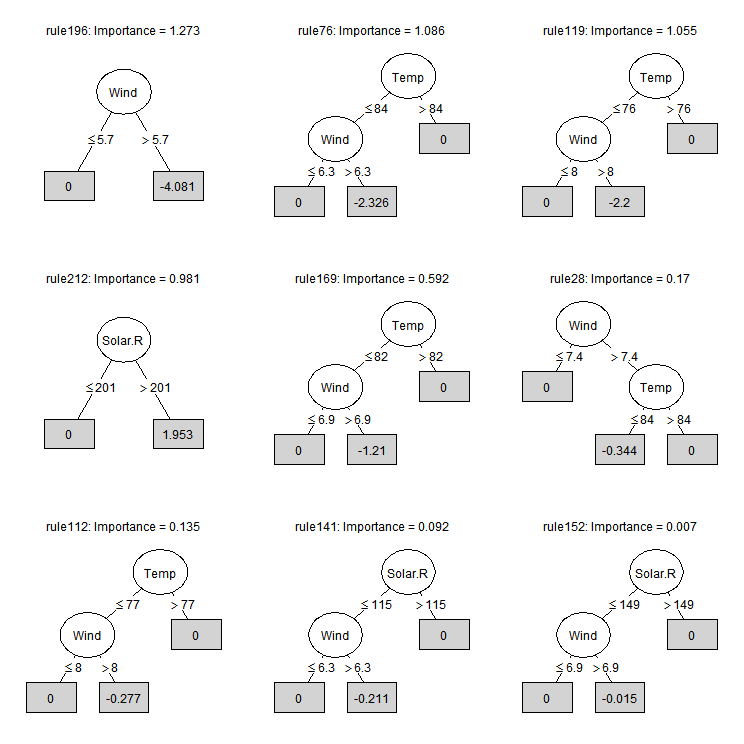
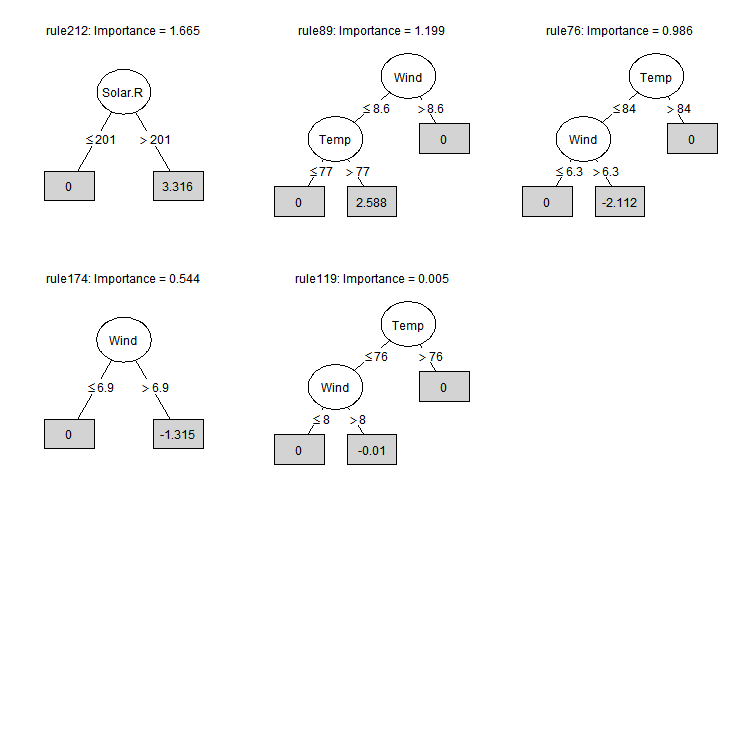
Updated README

diff --git a/README.md b/README.md
@@ -1,4 +1,4 @@
-pre: An R package for deriving prediction rule ensembles
+pre: an R package for deriving prediction rule ensembles
 ========================================================
 
 pre is an R package for deriving prediction rule ensembles for binary and continuous outcome variables. Input variables may be numeric, ordinal and nominal. The package implements the algorithm for deriving prediction rule ensembles as described in Friedman & Popescu (2008), with several adjustments:
@@ -14,48 +14,43 @@ The pre package is developed to provide useRs a completely R based implementatio
 Examples
 ========
 
-To get a first impression of how pre works, we will fit a prediction rule ensemble to predict Ozone levels using the airquality dataset:
+To get a first impression of how pre works, we will fit a prediction rule ensemble to predict Ozone levels using the airquality dataset. WE can fit a prediction rule ensemble using the pre() function:
 
 ``` r
 library(pre)
-complete <- complete.cases(airquality)
 set.seed(42)
-airq.ens <- pre(Ozone ~ ., data = airquality[complete, ], standardize = TRUE)
+airq.ens <- pre(Ozone ~ ., data = airquality[complete.cases(airquality), ])
 ```
 
-We can print the resulting ensemble:
+We can print the resulting ensemble using the print function():
 
 ``` r
 print(airq.ens)
 #> 
 #> Final ensemble with cv error within 1se of minimum: 
-#>   lambda =  4.17647
-#>   number of terms = 18
-#>   mean cv error (se) = 317.0573 (78.75351) 
+#>   lambda =  1.607146
+#>   number of terms = 14
+#>   mean cv error (se) = 299.798 (74.28342) 
 #> 
-#>          rule   coefficient                          description
-#>   (Intercept)   67.15616051                                 <NA>
-#>        rule72  -12.13055473              Wind > 5.7 & Temp <= 84
-#>       rule213  -11.19466003              Wind > 5.1 & Temp <= 87
-#>       rule216    7.38360232         Wind <= 10.3 & Solar.R > 148
-#>         rule3    6.32585482              Temp > 78 & Wind <= 6.3
-#>       rule179   -5.42658558              Wind > 5.7 & Temp <= 82
-#>       rule122    4.66339857                            Temp > 77
-#>       rule201   -4.55678752  Wind > 5.7 & Temp <= 87 & Day <= 23
-#>       rule196   -4.08079273                           Wind > 5.7
-#>        rule25   -3.77748826              Wind > 6.3 & Temp <= 82
-#>        rule89    3.69069308              Temp > 77 & Wind <= 8.6
-#>        rule76   -2.32587691              Wind > 6.3 & Temp <= 84
-#>       rule119   -2.19972011                Wind > 8 & Temp <= 76
-#>       rule212    1.95297306                        Solar.R > 201
-#>       rule169   -1.20997908              Wind > 6.9 & Temp <= 82
-#>        rule28   -0.34433752              Temp <= 84 & Wind > 7.4
-#>       rule112   -0.27695874                Wind > 8 & Temp <= 77
-#>       rule141   -0.21062503          Wind > 6.3 & Solar.R <= 115
-#>       rule152   -0.01544867          Wind > 6.9 & Solar.R <= 149
+#>          rule    coefficient                          description
+#>   (Intercept)   62.658099734                                 <NA>
+#>        rule72  -13.401881493              Wind > 5.7 & Temp <= 84
+#>       rule216    8.166292702         Wind <= 10.3 & Solar.R > 148
+#>       rule122    8.027236520                            Temp > 77
+#>       rule213   -7.901556274              Wind > 5.1 & Temp <= 87
+#>       rule201   -6.587690267  Wind > 5.7 & Temp <= 87 & Day <= 23
+#>        rule25   -5.524545249              Wind > 6.3 & Temp <= 82
+#>       rule179   -4.981266386              Wind > 5.7 & Temp <= 82
+#>         rule3    4.927105788              Temp > 78 & Wind <= 6.3
+#>       rule149   -3.427067580                Temp <= 87 & Wind > 8
+#>       rule212    3.315627932                        Solar.R > 201
+#>        rule89    2.588377937              Temp > 77 & Wind <= 8.6
+#>        rule76   -2.112110981              Wind > 6.3 & Temp <= 84
+#>       rule174   -1.315368661                           Wind > 6.9
+#>       rule119   -0.009507402                Wind > 8 & Temp <= 76
 ```
 
-We can plot the rules (and or/linear terms) in the ensemble:
+We can plot the rules and linear terms in the ensemble using the plot() function:
 
 ``` r
 plot(airq.ens, penalty.par.val = "lambda.1se", max.terms.plot = 9, cex = .6)
@@ -63,20 +58,21 @@ plot(airq.ens, penalty.par.val = "lambda.1se", max.terms.plot = 9, cex = .6)
 
 ![](inst/README-figures/README-unnamed-chunk-4-1.png)![](inst/README-figures/README-unnamed-chunk-4-2.png)
 
-We can obtain the estimated coefficients of the ensemble:
+We can obtain the estimated coefficients for each of the baselearners using the coef() function:
 
 ``` r
-head(coef(airq.ens))
-#>            rule coefficient                  description
-#> 194 (Intercept)   67.156161                         <NA>
-#> 56       rule72  -12.130555      Wind > 5.7 & Temp <= 84
-#> 167     rule213  -11.194660      Wind > 5.1 & Temp <= 87
-#> 170     rule216    7.383602 Wind <= 10.3 & Solar.R > 148
-#> 3         rule3    6.325855      Temp > 78 & Wind <= 6.3
-#> 140     rule179   -5.426586      Wind > 5.7 & Temp <= 82
+coefs <- coef(airq.ens)
+coefs[1:6,]
+#>            rule coefficient                         description
+#> 194 (Intercept)   62.658100                                <NA>
+#> 56       rule72  -13.401881             Wind > 5.7 & Temp <= 84
+#> 170     rule216    8.166293        Wind <= 10.3 & Solar.R > 148
+#> 95      rule122    8.027237                           Temp > 77
+#> 167     rule213   -7.901556             Wind > 5.1 & Temp <= 87
+#> 159     rule201   -6.587690 Wind > 5.7 & Temp <= 87 & Day <= 23
 ```
 
-We can assess the importance of the input variables and base learenrs in the ensemble:
+We can assess the importance of the input variables as well as the baselearners in the ensemble using the importance() function:
 
 ``` r
 importance(airq.ens, round = 4)
@@ -86,39 +82,35 @@ importance(airq.ens, round = 4)
 
     #> $varimps
     #>   varname     imp
-    #> 1    Wind 14.5468
-    #> 2    Temp 13.7228
-    #> 3 Solar.R  2.8625
-    #> 4     Day  0.7364
+    #> 1    Temp 14.9921
+    #> 2    Wind 13.5507
+    #> 3 Solar.R  3.6914
+    #> 4     Day  1.0646
     #> 
     #> $baseimps
     #>       rule                         description    imp coefficient     sd
-    #> 1   rule72             Wind > 5.7 & Temp <= 84 5.5196    -12.1306 0.4550
-    #> 2  rule213             Wind > 5.1 & Temp <= 87 4.4044    -11.1947 0.3934
-    #> 3  rule216        Wind <= 10.3 & Solar.R > 148 3.6648      7.3836 0.4963
-    #> 4  rule179             Wind > 5.7 & Temp <= 82 2.5518     -5.4266 0.4702
-    #> 5  rule122                           Temp > 77 2.3307      4.6634 0.4998
-    #> 6    rule3             Temp > 78 & Wind <= 6.3 2.2885      6.3259 0.3618
-    #> 7  rule201 Wind > 5.7 & Temp <= 87 & Day <= 23 2.2092     -4.5568 0.4848
-    #> 8   rule25             Wind > 6.3 & Temp <= 82 1.8005     -3.7775 0.4766
-    #> 9   rule89             Temp > 77 & Wind <= 8.6 1.7090      3.6907 0.4630
-    #> 10 rule196                          Wind > 5.7 1.2729     -4.0808 0.3119
-    #> 11  rule76             Wind > 6.3 & Temp <= 84 1.0856     -2.3259 0.4667
-    #> 12 rule119               Wind > 8 & Temp <= 76 1.0549     -2.1997 0.4796
-    #> 13 rule212                       Solar.R > 201 0.9806      1.9530 0.5021
-    #> 14 rule169             Wind > 6.9 & Temp <= 82 0.5921     -1.2100 0.4894
-    #> 15  rule28             Temp <= 84 & Wind > 7.4 0.1698     -0.3443 0.4932
-    #> 16 rule112               Wind > 8 & Temp <= 77 0.1349     -0.2770 0.4872
-    #> 17 rule141         Wind > 6.3 & Solar.R <= 115 0.0919     -0.2106 0.4363
-    #> 18 rule152         Wind > 6.9 & Solar.R <= 149 0.0072     -0.0154 0.4630
+    #> 1   rule72             Wind > 5.7 & Temp <= 84 6.0981    -13.4019 0.4550
+    #> 2  rule216        Wind <= 10.3 & Solar.R > 148 4.0533      8.1663 0.4963
+    #> 3  rule122                           Temp > 77 4.0120      8.0272 0.4998
+    #> 4  rule201 Wind > 5.7 & Temp <= 87 & Day <= 23 3.1939     -6.5877 0.4848
+    #> 5  rule213             Wind > 5.1 & Temp <= 87 3.1087     -7.9016 0.3934
+    #> 6   rule25             Wind > 6.3 & Temp <= 82 2.6332     -5.5245 0.4766
+    #> 7  rule179             Wind > 5.7 & Temp <= 82 2.3424     -4.9813 0.4702
+    #> 8    rule3             Temp > 78 & Wind <= 6.3 1.7825      4.9271 0.3618
+    #> 9  rule149               Temp <= 87 & Wind > 8 1.6771     -3.4271 0.4894
+    #> 10 rule212                       Solar.R > 201 1.6647      3.3156 0.5021
+    #> 11  rule89             Temp > 77 & Wind <= 8.6 1.1985      2.5884 0.4630
+    #> 12  rule76             Wind > 6.3 & Temp <= 84 0.9858     -2.1121 0.4667
+    #> 13 rule174                          Wind > 6.9 0.5439     -1.3154 0.4135
+    #> 14 rule119               Wind > 8 & Temp <= 76 0.0046     -0.0095 0.4796
 
-We can generate predictions for new observations:
+We can generate predictions for new observations using the predict() function:
 
 ``` r
 airq.preds <- predict(airq.ens, newdata = airquality[1:4,])
 ```
 
-We can assess the effect of a single predictor variable on the outcome through a partial dependence plot:
+We can obtain a partial dependence plot to assess the effect of a single predictor variable on the outcome using the singleplot() function:
 
 ``` r
 singleplot(airq.ens, varname = "Temp")
@@ -126,7 +118,7 @@ singleplot(airq.ens, varname = "Temp")
 
 ![](inst/README-figures/README-unnamed-chunk-8-1.png)
 
-We can assess the effect of a par of predictor variables on the outcome through a partial dependence plot:
+We can obtain a partial dependence plot to assess the effect of a pair of predictor variables on the outcome using the pairplot() function:
 
 ``` r
 pairplot(airq.ens, varnames = c("Temp", "Wind"))
@@ -137,7 +129,7 @@ pairplot(airq.ens, varnames = c("Temp", "Wind"))
     #> NOTE: function pairplot uses package 'akima', which has an ACM license.
     #>     See also https://www.acm.org/publications/policies/software-copyright-notice.
 
-We can assess the expected prediction error of the ensemble, by default calculated using 10-fold cross validation:
+We can assess the expected prediction error of the ensemble through cross validation (10-fold, by default) using the cvpre() function:
 
 ``` r
 set.seed(43)
@@ -145,14 +137,14 @@ airq.cv <- cvpre(airq.ens)
 airq.cv$accuracy
 #> $MSE
 #>       MSE        se 
-#> 375.80814  85.76707 
+#> 365.97383  84.68306 
 #> 
 #> $MAE
 #>       MAE        se 
-#> 14.079477  1.270563
+#> 13.775890  1.265625
 ```
 
-More complex prediction ensembles can be derived with the gpe() function. The abbreviation gpe stands for generalized prediction ensembles, which may also include hinge functions of the predictor variables, in addition to rules and linear terms Friedman (1991). Addition of hinge functions may improve predictive accuracy (but may also reduce interpretability).
+More complex prediction ensembles can be obtained using the gpe() function. The abbreviation gpe stands for generalized prediction ensembles, which may include hinge functions of the predictor variables as described in Friedman (1991), in addition to rules and/or linear terms. Addition of such hinge functions may improve predictive accuracy (but may also reduce interpretability).
 
 References
 ==========
